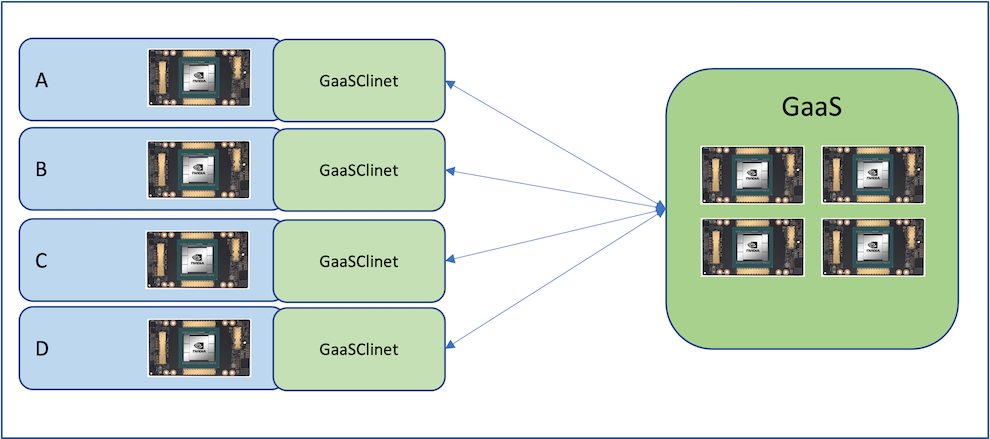
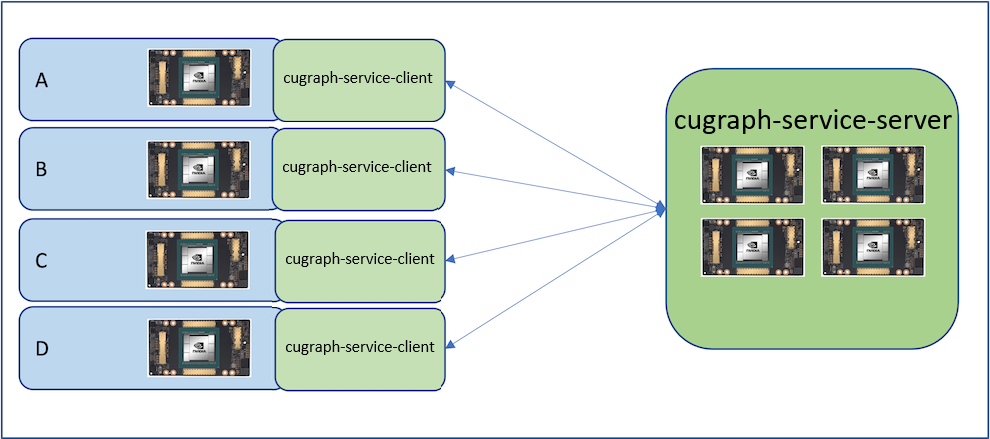
Updates README for cugraph-service to provide an up-to-date quickstart (#3119)
Partially addresses #3018 

* Updates README for cugraph-service to provide an up-to-date quickstart
* Updates image to remove "GaaS"

Authors:
   - Rick Ratzel (https://github.com/rlratzel)

Approvers:
   - Alex Barghi (https://github.com/alexbarghi-nv)
   - Brad Rees (https://github.com/BradReesWork)

diff --git a/python/cugraph-service/README.md b/python/cugraph-service/README.md
@@ -1,42 +1,55 @@
 # cugraph_service
 
 ## Description
-[RAPIDS](https://rapids.ai) cugraph_service provides an RPC interace to a remote [RAPIDS cuGraph](https://github.com/rapidsai/cugraph) session, allowing users to perform GPU accelerated graph analytics from a remote process. cugraph_service uses cuGraph, cuDF, and other libraries on the server to execute graph data prep and analysis on server-side GPUs. Multiple clients can connect to the server allowing different users and processes the ability to access large graph data that may not otherwise be possible using the client resources.
+[RAPIDS](https://rapids.ai) cugraph-service provides an RPC interace to a remote [RAPIDS cuGraph](https://github.com/rapidsai/cugraph) session, allowing users to perform GPU accelerated graph analytics from a remote process. cugraph-service uses cuGraph, cuDF, and other libraries on the server to execute graph data prep and analysis on server-side GPUs. Multiple clients can connect to the server allowing different users and processes the ability to access large graph data that may not otherwise be possible using the client resources.
 
 ## <div align="center"><img src="img/cugraph_service_pict.png" width="400px"/></div>
 
 -----
 
-## Build & Install
-Build and install the client first, then the server. This is necessary because the server depends on shared modules provided by the client.
-```
-$> cd cugraph_repo/python/cugraph_service/client
-$> python setup.py install
-$> cd ../server
-$> python setup.py install
-```
+### Quick start
+1. Install the cugraph-service conda packages (installing the server package also installs the client):
+   ```
+   conda install -c rapidsai-nightly -c rapidsai -c conda-forge -c nvidia cugraph-service-server
+   ```
 
-### Example
-Starting a server for single-GPU-only cuGraph, using server extensions in `/my/cugraph_service/extensions`:
-```
-$> export PYTHONPATH=/rapids/cugraph/python/cugraph_service
-$> python -m cugraph_service_server.server --graph-creation-extension-dir=/my/cugraph_service/extensions
-```
+1. Run the server (use --help to see more options)
+   - To run on a single-GPU:
+   ```
+   cugraph-service-server
+   ```
+   - To run on multiple GPUs:
+   ```
+   cugraph-service-server --start-local-cuda-cluster
+   ```
 
-Starting a server for multi-GPU cuGraph, same extensions:
-```
-$> export SCHEDULER_FILE=/tmp/scheduler.json
-$> /rapids/cugraph/python/cugraph_service/scripts/run-dask-process.sh scheduler workers &
-$> python -m cugraph_service_server.server --graph-creation-extension-dir=/my/cugraph_service/extensions --dask-scheduler-file=$SCHEDULER_FILE
-```
+1. Use the client in your application:
+   ```
+   >>> from cugraph_service_client import CugraphServiceClient
+   >>> client = CugraphServiceClient()
+   >>> # check connection to the server, uptime is in seconds
+   >>> client.uptime()
+   28
 
-### Example
-Creating a client
-```
->>> from cugraph_service_client import CugraphServiceClient
->>> client = CugraphServiceClient()
->>> client.load_csv_as_vertex_data(...)
-```
+   >>> # create a graph from a CSV on the server
+   >>> graph_id = client.create_graph()
+   >>> client.get_graph_ids()
+   [1]
+   >>> client.load_csv_as_edge_data("karate.csv", dtypes=["int32", "int32", "float32"], vertex_col_names=["src", "dst"], header=0, graph_id=graph_id)
+
+   >>> # check the graph info
+   >>> client.get_graph_info(graph_id=graph_id)
+   {'num_vertex_properties': 0, 'num_edge_properties': 1, 'is_multi_gpu': 0, 'num_edges': 156, 'num_vertices_from_vertex_data': 0, 'num_vertices': 34}
+
+   >>> # run an algo
+   >>> client.uniform_neighbor_sample(start_list=[0,12], fanout_vals=[2], graph_id=graph_id)
+   UniformNeighborSampleResult(sources=[0, 0, 12, 12], destinations=[1, 21, 0, 3], indices=[1.0, 1.0, 1.0, 1.0])
+
+   >>> # cleanup the graph on the server
+   >>> client.delete_graph(graph_id)
+   >>> client.get_graph_ids()
+   []
+   ```
 
 ### Debugging
 #### UCX-Py related variables:
@@ -75,6 +88,15 @@ CUDA_VISIBLE_DEVICES=0,1 ucx_perftest -m cuda -t tag_bw -n 100 -s 1000000000 loc
 CUDA_VISIBLE_DEVICES=0,1 ucx_perftest -m cuda -t tag_bw -n 1000000 -s 1000000000 &
 CUDA_VISIBLE_DEVICES=0,1 ucx_perftest -m cuda -t tag_bw -n 1000000 -s 1000000000 localhost
 ```
+
+### Building from source
+Build and install the client first, then the server. This is necessary because the server depends on shared modules provided by the client.
+   ```
+   $> cd cugraph_repo/python/cugraph_service/client
+   $> python setup.py install
+   $> cd ../server
+   $> python setup.py install
+   ```
 
 ------
 
